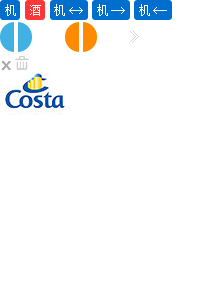
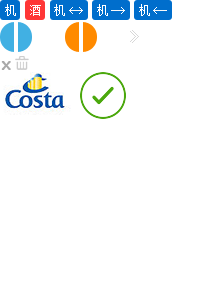
添加新增邮轮船只

Changed region(s): [[0.39, 0.24, 0.6, 0.42], [0.6, 0.27, 0.63, 0.36], [0.54, 0.36, 0.6, 0.39]]

diff --git a/运营商/邮轮/新增邮轮船只-基本信息.html b/运营商/邮轮/新增邮轮船只-基本信息.html
@@ -1,0 +1,275 @@
+<!DOCTYPE html>
+<html>
+<head>
+    <title>运营商 邮轮 新增邮轮船只-基本信息</title>
+	<meta http-equiv="Content-Type" content="text/html; charset=UTF-8">
+    <link href="/static/css/common.css" rel="stylesheet" type="text/css" />
+    <link href="/static/css/kendo.common.css" rel="stylesheet" type="text/css" />
+    <link href="/static/css/kendo.gray.css" rel="stylesheet" type="text/css" />
+    <link href="/static/css/kendo.reset.css" rel="stylesheet" type="text/css" />
+    <link href="/static/css/b2b.css" rel="stylesheet" type="text/css" />
+    <link href="/static/css/kendo.reset.css" rel="stylesheet" /> 
+    <link href="/static/css/operatorShip.css" rel="stylesheet" type="text/css"/>
+    
+    <script src="/static/js/jquery.min.js" type="text/javascript"></script>    
+    <script src="/static/js/kendo.web.js" type="text/javascript"></script>
+    <script type="text/javascript" src="/static/js/scrollFix.js"></script>
+    <script type="text/javascript" src="/static/js/global.js"></script>
+    <script type="text/javascript" src="/static/js/public.js"></script>
+
+    <!--[if IE]>
+    <script src="/static/js/html5.js"></script>
+    <![endif]-->
+    
+    <!--[if lt IE 8]>
+    <link rel="stylesheet" href="/static/css/ie.css" />
+    <script type="text/javascript" src="/static/js/vendor/IE7.min.js"></script>
+    <![endif]-->
+    <script type="text/javascript" src="/static/js/sync.js"></script>
+    <!-- @CLB@ -->
+
+    <style type="text/css">
+        body{position:relative;}
+        button,input[type=button] {width:100px;height:30px;}
+        .greenSucceedIcon .loading_icon{
+            background:url("../../static/images/operator/operatorIcon.png") no-repeat;
+        }
+    </style>
+    
+    
+</head>
+<body>
+    <div id="extHeader">
+        <div></div>
+    </div>
+
+    <div id="container">
+        <div class="header">
+            <h1></h1>
+            <div>
+                <span>你好,${name}</span>
+                <a href="javascript:void(0);">退出</a>
+            </div>
+            <ul id="top_menu">
+                <li><a href="javascript:void(0);">国内机票</a></li>
+                <li><a href="javascript:void(0);">国际机票</a></li>
+                <li><a href="javascript:void(0);">酒店</a></li>
+                <li><a href="javascript:void(0);">票证中心</a></li>
+                <li><a href="javascript:void(0);">财务管理</a></li>
+                <li><a href="javascript:void(0);">客户管理</a></li>
+                <li class="current"><a href="javascript:void(0);">系统设置</a></li>
+            </ul>
+            <ol class="sub_menu">
+                <li class="current"><a href="javascript:void(0);">公告信息</a></li>
+                <li><a href="javascript:void(0);">公司信息</a></li>
+                <li><a href="javascript:void(0);">组织架构</a></li>
+                <li><a href="javascript:void(0);">角色维护</a></li>
+                <li><a href="javascript:void(0);">基础数据</a></li>
+            </ol>
+            <div id="message">
+            	<a href="javascript:void(0);">&nbsp;</a>
+                <span>&nbsp;</span>
+            </div>
+        </div>
+        <div class="clear"></div>
+        <div id="sub_menu_bar"></div>
+        <div id="mainContent" style="overflow:hidden;">
+			<!-- start content -->
+
+            <div class="topFixedToolsBar">
+                <div class="commonReturnBtn">
+                    <a href="#">返回</a>
+                </div>
+                <div class="fixedMenu">
+                    <h3 class="fixedMenuTitle">新增邮轮船只</h3>
+                    <a href="#" class="current">基本信息</a>
+                    <a href="#">舱房</a>
+                    <a href="#">甲板</a>
+                    <a href="#">餐娱</a>
+                </div>
+            </div>
+            
+            
+            <div class="information_div">
+                <table class="shipBasicInfo">
+                    <colgroup>
+                        <col width="110">
+                        <col width="330">
+                        <col width="100">
+                        <col width="380">
+                    </colgroup>
+                    <tbody>
+                    <tr>
+                        <th><em>*</em>邮轮名称：</th>
+                        <td colspan="2">
+                            <input class="path-name" type="text" name="" style="width: 420px;"/>
+                        </td>
+                        <td></td>
+                    </tr>
+                    <tr>
+                        <th>英文名称：</th>
+                        <td>
+                            <input class="path-name" type="text" name="" style="width: 250px;"/>
+                        </td>
+                        <th></th>
+                        <td></td>
+                    </tr>
+                    <tr>
+                        <th>英文缩写：</th>
+                        <td>
+                            <input class="path-name" type="text" name="" style="width: 250px;"/>
+                        </td>
+                        <th></th>
+                        <td></td>
+                    </tr>
+                    <tr>
+                        <th>邮轮公司：</th>
+                        <td>
+                            <select data-role="dropdownlist" style="width: 255px;">
+                                <option>邮轮公司</option>
+                            </select>
+                        </td>
+                        <th></th>
+                        <td></td>
+                    </tr>
+                    <tr>
+                        <th style="vertical-align: top;"><em>*</em>船体图：</th>
+                        <td colspan="3">
+                            <ul class="shipUploadImg">
+                                <li class="shipImgLi">
+                                    <img src="/static/images/supplier/shipUploadImg01.jpg"/>
+                                    <div class="memberFile">
+                                        <!--<span class="imgPrev"></span>-->
+                                        <span class="imgDel"></span>
+                                        <span class="imgNext"></span>
+                                    </div>
+                                </li>
+                                <li class="shipImgLi">
+                                    <img src="/static/images/supplier/shipUploadImg01.jpg"/>
+                                    <div class="memberFile">
+                                        <span class="imgPrev"></span>
+                                        <span class="imgDel"></span>
+                                        <span class="imgNext"></span>
+                                    </div>
+                                </li>
+                                <li class="uploadingBox">
+                                    <div class="uploadBar"><span class="uploadinged"></span></div>
+                                    <div style="color: #0074d2;">上传中</div>
+                                </li>
+                                <li class="addImgBox">
+                                    <i></i>添加照片
+                                </li>
+                            </ul>
+                        </td>
+                    </tr>
+                    <tr>
+                        <th style="vertical-align: top;">简介：</th>
+                        <td colspan="3">
+                            <div class="textareaDiv">
+                                <textarea class="textareaContent introText"></textarea>
+                                <em class="hintFontsNumber">100字以内</em>
+                            </div>
+                        </td>
+                    </tr>
+                    <tr>
+                        <th>初航时间：</th>
+                        <td>
+                            <input class="path-name" type="text" name="" style="width: 250px;"/>
+                        </td>
+                        <th>最近检修时间：</th>
+                        <td>
+                            <input class="path-name" type="text" name="" style="width: 250px;"/>
+                        </td>
+                    </tr>
+                    <tr>
+                        <th>船员数：</th>
+                        <td>
+                            <input class="path-name" type="text" name="" style="width: 250px;"/>
+                        </td>
+                        <th>载客人数：</th>
+                        <td>
+                            <input class="path-name" type="text" name="" style="width: 250px;"/>
+                        </td>
+                    </tr>
+                    <tr>
+                        <th>长度：</th>
+                        <td>
+                            <input class="path-name" type="text" name="" style="width: 250px;"/>
+                        </td>
+                        <th>宽度：</th>
+                        <td>
+                            <input class="path-name" type="text" name="" style="width: 250px;"/>
+                        </td>
+                    </tr>
+                    <tr>
+                        <th>甲板：</th>
+                        <td>
+                            <input class="path-name" type="text" name="" style="width: 250px;"/>
+                        </td>
+                        <th>吨位数：</th>
+                        <td>
+                            <input class="path-name" type="text" name="" style="width: 250px;"/>
+                        </td>
+                    </tr>
+                    <tr>
+                        <th style="vertical-align: top;">介绍：</th>
+                        <td colspan="3">
+                            <div class="textareaDiv">
+                                <textarea class="textareaContent introduceText"></textarea>
+                                <em class="hintFontsNumber">1000字以内</em>
+                            </div>
+                        </td>
+                    </tr>
+                    <tr>
+                        <td colspan="4" class="shipBasicInfoBtn">
+                            <button class="large_button" type="button" name="a">确 定</button>
+                            <button class="large_button disable" type="button" name="a">取 消</button>
+                        </td>
+                    </tr>
+                    </tbody>
+                </table>
+            </div>
+                
+            <!--保存提示蒙版-->
+            <div class="ajax">
+                <input type="button" name="button1" value="正在为您保存…">
+            </div>
+            
+            </div>
+          </div>
+ 
+    <!-- end of content -->
+    </div>
+    
+    <div id="extFooter">
+        <div>
+            <p>
+                <a href="javascript:void(0);">关于我们</a>&nbsp;|
+                <a href="javascript:void(0);">微博</a>&nbsp;|
+                <a href="javascript:void(0);">服务条款</a>&nbsp;|
+                <a href="javascript:void(0);">隐私政策</a>&nbsp;|
+            </p>
+            <p>客户服务热线:400-720-6666</p>
+        </div>
+    </div>
+    
+    <script>
+        $(function(){
+            kendo.init('body');
+            lensf();
+
+            $(".ajax input[name=button1]").click(function(){
+                $.loadingbar({
+                    debug:true,
+                    autoHide:false,
+                    wrapperClass:'greenSucceedIcon',
+                    replaceText: "正在为您保存…"
+            });
+                $.ajax({ url: encodeURI("城市选择-国内.html")});
+            });
+            
+        })
+    </script>
+
+</body>
+</html>

diff --git a/采购商/用户中心/退废票规定.html b/采购商/用户中心/退废票规定.html
@@ -1382,7 +1382,7 @@
                     <col width="170" />
                     <tbody>
                     <tr align="center">
-                        <td colspan="4"><div class="current_find" style="font-size: 14px;">华夏--G5</div></td>
+                        <td  colspan="4"><div class="current_find" style="font-size: 14px;">华夏--G5 &nbsp;&nbsp; 14年9月1日起执行</div></td>
                     </tr>
                     <tr align="center">
                         <td><span class="STYLE3">舱位</span></td>
@@ -1391,40 +1391,46 @@
                         <td><span class="STYLE3">关于签转</span></td>
                     </tr>
                     <tr>
-                        <td align="center">F</td>
-                        <td>航班计划离站时间24小时前（含）取消定座取消定座收取5%退票费，航班计划离站时间24小时内取消订座收取10%退票费</td>
-                        <td>航班计划离站时间24小时前（含）取消定座收取5%变更费；航班计划离站时间24小时内取消订座收取10%变更费</td>
-                        <td>允许签转</td>
+                        <td  align="center">F</td>
+                        <td >航班离站24小时前（含）取消订座按票面价5%计收退票费，航班离站24小时以内取消订座按照票面价10%计收退票费。</td>
+                        <td >航班离站时间24小时前（含）取消定座收取票面价票面价5%变更费；航班离站时间24小时内取消订座收取票面价10%变更费</td>
+                        <td >允许签转</td>
                     </tr>
                     <tr>
-                        <td align="center">Y</td>
-                        <td>航班计划离站时间24小时前（含）取消定座取消定座收取15%退票费，航班计划离站时间24小时内取消订座收取25%退票费</td>
-                        <td>航班计划离站时间24小时前（含）取消定座收取5%变更费；航班计划离站时间24小时内取消订座收取15%变更费</td>
-                        <td>允许签转</td>
+                        <td  align="center">A</td>
+                        <td >航班离站24小时前（含）取消订座按票面价10%计收退票费，航班离站24小时以内取消订座按照票面价20%计收退票费。</td>
+                        <td >航班离站时间24小时前（含）取消定座收取票面价5%变更费；航班离站时间24小时内取消订座收取票面价10%变更费</td>
+                        <td >不允许签转</td>
                     </tr>
                     <tr>
-                        <td align="center">T/H/M/G</td>
-                        <td>航班计划离站时间24小时前（含）取消定座取消定座收取15%退票费，航班计划离站时间24小时内取消订座收取25%退票费</td>
-                        <td>航班计划离站时间24小时前（含）取消定座收取5%变更费；航班计划离站时间24小时内取消订座收取15%变更费</td>
+                        <td  align="center">Y</td>
+                        <td >航班离站24小时前（含）取消订座按票面价10%计收退票费，航班离站24小时以内取消订座按照票面价20%计收退票费。</td>
+                        <td >航班离站时间24小时前（含）取消订座收取票面价5%变更费；航班离站时间24小时内取消订座收取票面价10%变更费</td>
+                        <td >允许签转</td>
+                    </tr>
+                    <tr>
+                        <td  align="center">T/H/M/G</td>
+                        <td >航班离站24小时前（含）取消订座按票面价10%计收退票费，航班离站24小时以内取消订座按照票面价20%计收退票费。</td>
+                        <td >航班离站时间24小时前（含）取消订座收取票面价5%变更费；航班离站时间24小时内取消订座收取票面价10%变更费</td>
                         <td rowspan="3">不允许签转</td>
                     </tr>
                     <tr>
-                        <td align="center">S/L/Q/E/V/R/O</td>
-                        <td>航班计划离站时间24小时前（含）取消定座取消定座收取25%退票费，航班计划离站时间24小时内取消订座收取50%退票费</td>
-                        <td>航班计划离站时间24小时前（含）取消定座收取15%变更费；航班计划离站时间24小时内取消订座收取30%变更费</td>
+                        <td  align="center">S/L/Q/E/V/R/O</td>
+                        <td >航班离站时间24小时前（含）取消订座取消订座收取票面价25%退票费，航班离站时间24小时内取消订座收取票面价50%退票费</td>
+                        <td >航班离站时间24小时前（含）取消订座收取票面价15%变更费；航班离站时间24小时内取消订座收取票面价30%变更费</td>
                     </tr>
                     <tr>
-                        <td align="center">U/Z/X</td>
-                        <td>不得退票</td>
-                        <td>不允许自愿变更和升舱</td>
+                        <td  align="center">U/Z/X</td>
+                        <td >不得退票</td>
+                        <td >不允许自愿变更和升舱</td>
                     </tr>
                     <tr>
-                        <td align="center">W</td>
-                        <td>1.如使用了第一航程航段，后续航段不得退票。<br />
+                        <td  align="center">W</td>
+                        <td >1.如使用了第一航程航段，后续航段不得退票。 <br />
                             2.全程未使用退票：航班离站前24小时以外按照票面价20%计收手续费，航班离站前24小时内按票面价50%计收手续费，航班规定离站时间后不得退票。<br />
                             3.如有另行规定，以中转联程运价通告为准。</td>
-                        <td>不允许自愿变更</td>
-                        <td>不允许签转</td>
+                        <td >不允许自愿变更</td>
+                        <td >不允许签转</td>
                     </tr>
                     <tr>
                         <td height="20"><strong class="STYLE1">华夏客服电话</strong></td>

diff --git a/static/css/operatorShip.css b/static/css/operatorShip.css
@@ -517,3 +517,22 @@ html, body, div, p, ul, ol, li, dl, dt, dd, h1, h2, h3, h4, h5, h6, form, input,
     background: url(../images/operator/tag-icons.png) no-repeat 0 -19px;
     cursor: pointer;
 }
+.fixedMenu h3{
+    font-size: 14px;
+}
+.fixedMenu .fixedMenuTitle{
+    display: inline-block;
+    margin-right: 20px;
+}
+.shipBasicInfo .shipBasicInfoBtn{
+    text-align: center;
+    padding-top: 20px;
+}
+.shipBasicInfoBtn button{
+    font-size: 14px;
+    font-weight: bold;
+}
+.shipBasicInfoBtn .disable{
+    color: #505050;
+    margin-left: 5px;
+}
